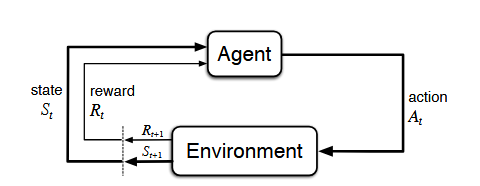
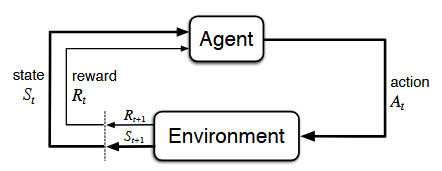
Adding image to mdp.html

Changed region(s): [[0.0294, 0.0877, 0.9706, 0.9649]]

diff --git a/projects/reinforcement_learning/mdp.html b/projects/reinforcement_learning/mdp.html
@@ -132,8 +132,12 @@
         <li>Agent updates its value estimates or policy using \((S_{t}, A_{t}, R_{t+1}, S_{t+1})\)</li>
         <li>Repeat &hellip;</li>
     </ol>
-    <p>In a <em>finite</em> MDP, the sets of states, actions, and rewards all have a finite number of elements (as opposed to <em>infinite</em>&hellip;)</p>
+<p>In a <em>finite</em> MDP, the sets of states, actions, and rewards all have a finite number of elements (as opposed to <em>infinite</em>&hellip;)</p>
 
+    <img src="images/MDP.png" alt="image of MDP loop" style="width:440px;height:170px;">
+    <p>Depiction of the agent-environment interactions in a MDP, borrowed from Sutton & Barto (2018)</p>
+
+    
     <h2>Agent's Learning Objectives: What's the Point?</h2>
     <p>To what end are we specifying all of these key players and parameterizing the learning system? What does all of this accomplish? 
 </p> 
